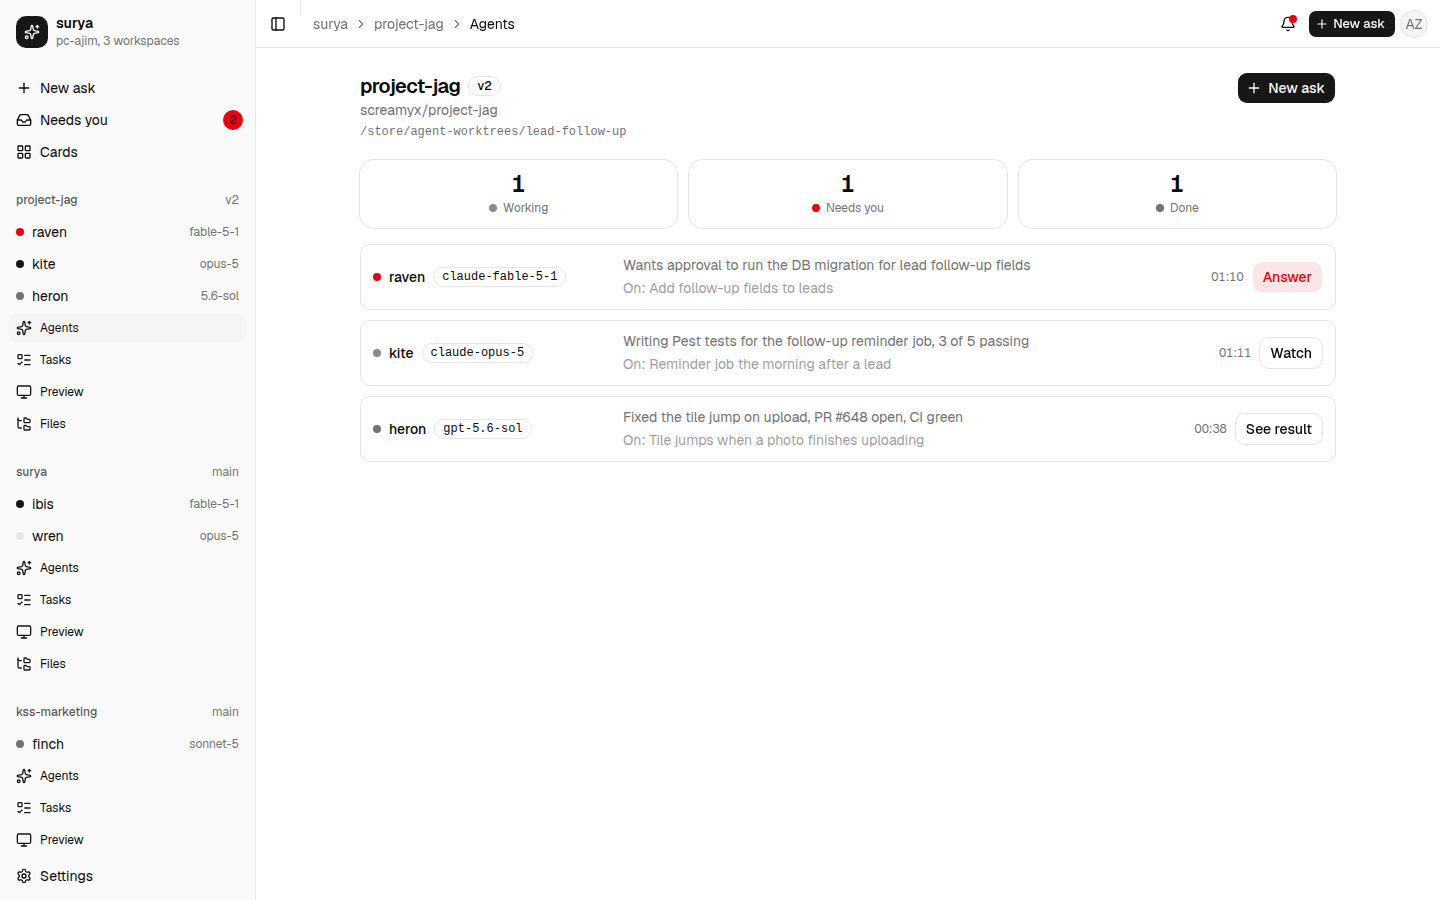
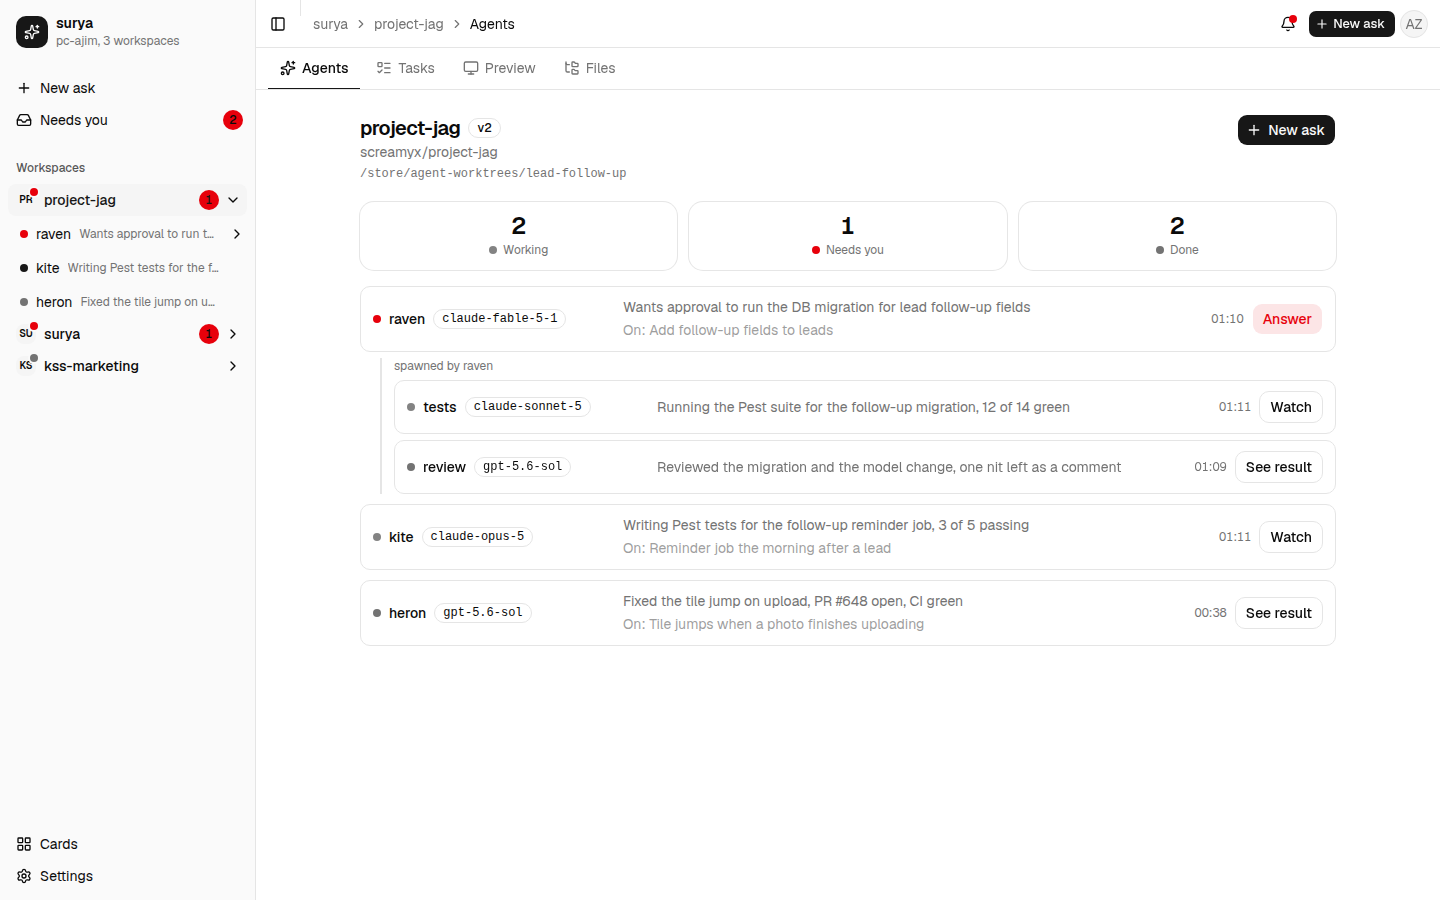
mockup: rail lists workspaces and nested agents only, workspace tab bar, spawned agents parented

diff --git a/mockup/src/components/app-shell.tsx b/mockup/src/components/app-shell.tsx
@@ -1,8 +1,9 @@
 import { Link, NavLink, Outlet, useLocation, useParams } from "react-router"
-import { Bell, FolderTree, Home, Inbox, LayoutGrid, ListTodo, Monitor, Plus, Settings, Sparkles } from "lucide-react"
+import { Bell, ChevronRight, Home, Inbox, LayoutGrid, ListTodo, Monitor, Plus, Settings, Sparkles } from "lucide-react"
+import { Collapsible, CollapsibleContent, CollapsibleTrigger } from "@/components/ui/collapsible"
 import {
   Sidebar, SidebarContent, SidebarFooter, SidebarGroup, SidebarGroupContent, SidebarGroupLabel, SidebarHeader, SidebarInset,
-  SidebarMenu, SidebarMenuBadge, SidebarMenuButton, SidebarMenuItem, SidebarMenuSub, SidebarMenuSubButton, SidebarMenuSubItem,
+  SidebarMenu, SidebarMenuAction, SidebarMenuBadge, SidebarMenuButton, SidebarMenuItem, SidebarMenuSub, SidebarMenuSubButton, SidebarMenuSubItem,
   SidebarProvider, SidebarRail, SidebarTrigger,
 } from "@/components/ui/sidebar"
 import { Button } from "@/components/ui/button"
@@ -11,55 +12,83 @@ import { Separator } from "@/components/ui/separator"
 import { Breadcrumb, BreadcrumbItem, BreadcrumbLink, BreadcrumbList, BreadcrumbPage, BreadcrumbSeparator } from "@/components/ui/breadcrumb"
 import { Avatar, AvatarFallback } from "@/components/ui/avatar"
 import { StatusDot } from "@/components/status"
-import { inbox, workspaces } from "@/data"
+import { byPriority, inbox, needsYouCount, rollup, workspaces, type Agent } from "@/data"
 import { cn } from "@/lib/utils"
 
 const needsYou = inbox.filter((i) => i.kind === "permission" || i.kind === "question").length
 
-function WorkspaceNav() {
-  const { ws, id } = useParams()
-  const { pathname } = useLocation()
+// One row per agent. Spawned agents nest under their spawner, folded by default unless one of them needs you.
+function AgentRow({ a, ws }: { a: Agent; ws: string }) {
+  const { id } = useParams()
+  const kids = byPriority(a.children)
+  const hot = needsYouCount(a.children) > 0
+  const row = (
+    <SidebarMenuButton render={<Link to={`/w/${ws}/agent/${a.id}`} />} isActive={id === a.id} tooltip={a.summary} className="group/agent">
+      <StatusDot status={rollup(a)} />
+      <span className="truncate">{a.name}</span>
+      <span className="text-muted-foreground min-w-0 flex-1 truncate text-xs">{a.summary}</span>
+    </SidebarMenuButton>
+  )
+  if (!kids.length) return <SidebarMenuItem>{row}</SidebarMenuItem>
   return (
-    <>
-      {workspaces.map((w) => (
-        <SidebarGroup key={w.id}>
-          <SidebarGroupLabel className="justify-between">
-            <span className="truncate">{w.name}</span>
-            <span className="text-muted-foreground font-normal">{w.branch}</span>
-          </SidebarGroupLabel>
-          <SidebarGroupContent>
-            <SidebarMenu>
-              {w.agents.map((a) => (
-                <SidebarMenuItem key={a.id}>
-                  <SidebarMenuButton render={<Link to={`/w/${w.id}/agent/${a.id}`} />} isActive={ws === w.id && id === a.id} tooltip={a.summary}>
-                    <StatusDot status={a.status} />
-                    <span className="truncate">{a.name}</span>
-                    <span className="text-muted-foreground ml-auto truncate text-xs">{a.model.replace("claude-", "").replace("gpt-", "")}</span>
-                  </SidebarMenuButton>
-                </SidebarMenuItem>
-              ))}
-              <SidebarMenuItem>
-                <SidebarMenuSub className="mx-0 border-0 px-0">
-                  {[
-                    { to: `/w/${w.id}/agents`, icon: Sparkles, label: "Agents" },
-                    { to: `/w/${w.id}/tasks`, icon: ListTodo, label: "Tasks" },
-                    { to: `/w/${w.id}/preview`, icon: Monitor, label: "Preview" },
-                    { to: `/w/${w.id}/files`, icon: FolderTree, label: "Files" },
-                  ].map((l) => (
-                    <SidebarMenuSubItem key={l.to}>
-                      <SidebarMenuSubButton render={<Link to={l.to} />} isActive={pathname === l.to} size="sm">
-                        <l.icon />
-                        <span>{l.label}</span>
-                      </SidebarMenuSubButton>
-                    </SidebarMenuSubItem>
-                  ))}
-                </SidebarMenuSub>
-              </SidebarMenuItem>
-            </SidebarMenu>
-          </SidebarGroupContent>
-        </SidebarGroup>
-      ))}
-    </>
+    <Collapsible defaultOpen={hot || id === a.id || kids.some((k) => k.id === id)} className="group/kids" render={<SidebarMenuItem />}>
+      {row}
+      <CollapsibleTrigger render={<SidebarMenuAction className="data-[panel-open]:rotate-90" aria-label="Show spawned agents" />}>
+        <ChevronRight />
+      </CollapsibleTrigger>
+      <CollapsibleContent>
+        <SidebarMenuSub>
+          {kids.map((k) => (
+            <SidebarMenuSubItem key={k.id}>
+              <SidebarMenuSubButton render={<Link to={`/w/${ws}/agent/${k.id}`} />} isActive={id === k.id} size="sm">
+                <StatusDot status={rollup(k)} />
+                <span className="truncate">{k.name}</span>
+                <span className="text-muted-foreground min-w-0 flex-1 truncate text-xs">{k.summary}</span>
+              </SidebarMenuSubButton>
+            </SidebarMenuSubItem>
+          ))}
+        </SidebarMenuSub>
+      </CollapsibleContent>
+    </Collapsible>
+  )
+}
+
+// Workspaces are the top level. Only the current one is open; a closed one still shows its worst status and its "needs you" count.
+function WorkspaceNav() {
+  const { ws } = useParams()
+  const current = ws ?? workspaces[0].id
+  return (
+    <SidebarGroup>
+      <SidebarGroupLabel>Workspaces</SidebarGroupLabel>
+      <SidebarGroupContent>
+        <SidebarMenu>
+          {workspaces.map((w) => {
+            const hot = needsYouCount(w.agents)
+            const worst = w.agents.length ? rollup({ ...w.agents[0], status: "idle", children: w.agents }) : "idle"
+            return (
+              <Collapsible key={w.id} defaultOpen={w.id === current} render={<SidebarMenuItem />}>
+                <SidebarMenuButton render={<Link to={`/w/${w.id}/agents`} />} isActive={w.id === current} tooltip={`${w.name} · ${w.branch}`} className="font-medium">
+                  <span className="bg-muted text-foreground relative grid size-5 shrink-0 place-items-center rounded-md text-[10px] font-semibold uppercase">
+                    {w.name.slice(0, 2)}
+                    <StatusDot status={worst} className="absolute -top-0.5 -right-0.5 size-2 ring-2 ring-sidebar" />
+                  </span>
+                  <span className="truncate">{w.name}</span>
+                </SidebarMenuButton>
+                {hot > 0 && <SidebarMenuBadge className="bg-destructive text-destructive-foreground right-7 rounded-full">{hot}</SidebarMenuBadge>}
+                <CollapsibleTrigger render={<SidebarMenuAction className="data-[panel-open]:rotate-90" aria-label="Toggle workspace" />}>
+                  <ChevronRight />
+                </CollapsibleTrigger>
+                <CollapsibleContent>
+                  <SidebarMenu className="mt-0.5 ml-1 gap-0.5">
+                    {byPriority(w.agents).map((a) => <AgentRow key={a.id} a={a} ws={w.id} />)}
+                  </SidebarMenu>
+                </CollapsibleContent>
+              </Collapsible>
+            )
+          })}
+        </SidebarMenu>
+      </SidebarGroupContent>
+    </SidebarGroup>
   )
 }
 
@@ -125,7 +154,6 @@ export function AppShell() {
                   <SidebarMenuButton render={<Link to="/inbox" />} tooltip="Needs you"><Inbox /><span>Needs you</span></SidebarMenuButton>
                   {needsYou > 0 && <SidebarMenuBadge className="bg-destructive text-destructive-foreground rounded-full">{needsYou}</SidebarMenuBadge>}
                 </SidebarMenuItem>
-                <SidebarMenuItem><SidebarMenuButton render={<Link to="/catalog" />} tooltip="Cards"><LayoutGrid /><span>Cards</span></SidebarMenuButton></SidebarMenuItem>
               </SidebarMenu>
             </SidebarGroupContent>
           </SidebarGroup>
@@ -133,9 +161,8 @@ export function AppShell() {
         </SidebarContent>
         <SidebarFooter>
           <SidebarMenu>
-            <SidebarMenuItem>
-              <SidebarMenuButton render={<Link to="/settings" />} tooltip="Settings"><Settings /><span>Settings</span></SidebarMenuButton>
-            </SidebarMenuItem>
+            <SidebarMenuItem><SidebarMenuButton render={<Link to="/catalog" />} tooltip="Cards"><LayoutGrid /><span>Cards</span></SidebarMenuButton></SidebarMenuItem>
+            <SidebarMenuItem><SidebarMenuButton render={<Link to="/settings" />} tooltip="Settings"><Settings /><span>Settings</span></SidebarMenuButton></SidebarMenuItem>
           </SidebarMenu>
         </SidebarFooter>
         <SidebarRail />

diff --git a/mockup/src/data.ts b/mockup/src/data.ts
@@ -21,6 +21,8 @@ export type Agent = {
   startedAt: string
   lastEventAt: string
   task?: string
+  parentId?: string // the agent that spawned this one; undefined = you started it
+  children: Agent[]
 }
 
 export type InboxKind = "permission" | "question" | "pin" | "result"
@@ -133,6 +135,31 @@ export const agents: Agent[] = [
     startedAt: "2026-09-05T00:41:00+08:00",
     lastEventAt: "2026-09-05T01:10:12+08:00",
     task: "t-1",
+    children: [],
+  },
+  {
+    id: "raven-tests",
+    workspaceId: "project-jag",
+    name: "tests",
+    model: "claude-sonnet-5",
+    status: "working",
+    summary: "Running the Pest suite for the follow-up migration, 12 of 14 green",
+    startedAt: "2026-09-05T01:08:00+08:00",
+    lastEventAt: "2026-09-05T01:11:50+08:00",
+    parentId: "raven",
+    children: [],
+  },
+  {
+    id: "raven-review",
+    workspaceId: "project-jag",
+    name: "review",
+    model: "gpt-5.6-sol",
+    status: "done",
+    summary: "Reviewed the migration and the model change, one nit left as a comment",
+    startedAt: "2026-09-05T01:05:00+08:00",
+    lastEventAt: "2026-09-05T01:09:30+08:00",
+    parentId: "raven",
+    children: [],
   },
   {
     id: "kite",
@@ -144,6 +171,7 @@ export const agents: Agent[] = [
     startedAt: "2026-09-05T00:52:00+08:00",
     lastEventAt: "2026-09-05T01:11:58+08:00",
     task: "t-2",
+    children: [],
   },
   {
     id: "heron",
@@ -155,6 +183,7 @@ export const agents: Agent[] = [
     startedAt: "2026-09-04T23:20:00+08:00",
     lastEventAt: "2026-09-05T00:38:00+08:00",
     task: "t-4",
+    children: [],
   },
   {
     id: "ibis",
@@ -166,6 +195,19 @@ export const agents: Agent[] = [
     startedAt: "2026-09-05T01:02:00+08:00",
     lastEventAt: "2026-09-05T01:11:40+08:00",
     task: "t-6",
+    children: [],
+  },
+  {
+    id: "ibis-shots",
+    workspaceId: "surya",
+    name: "shots",
+    model: "claude-haiku-4-5-20251001",
+    status: "needs-you",
+    summary: "Wants to install a Chrome build to take phone screenshots",
+    startedAt: "2026-09-05T01:09:00+08:00",
+    lastEventAt: "2026-09-05T01:11:20+08:00",
+    parentId: "ibis",
+    children: [],
   },
   {
     id: "wren",
@@ -176,6 +218,7 @@ export const agents: Agent[] = [
     summary: "Waiting for the next task",
     startedAt: "2026-09-05T00:58:00+08:00",
     lastEventAt: "2026-09-05T01:05:00+08:00",
+    children: [],
   },
   {
     id: "finch",
@@ -186,9 +229,19 @@ export const agents: Agent[] = [
     summary: "Rendered 42 catalog reels, all published",
     startedAt: "2026-09-04T22:00:00+08:00",
     lastEventAt: "2026-09-04T23:48:00+08:00",
+    children: [],
   },
 ]
-for (const w of workspaces) w.agents = agents.filter((a) => a.workspaceId === w.id)
+for (const a of agents) a.children = agents.filter((c) => c.parentId === a.id)
+for (const w of workspaces) w.agents = agents.filter((a) => a.workspaceId === w.id && !a.parentId)
+
+// Status of an agent including everything it spawned: the worst state wins.
+const rank: Record<AgentStatus, number> = { "needs-you": 0, working: 1, done: 2, idle: 3 }
+export const rollup = (a: Agent): AgentStatus =>
+  [a, ...a.children.map((c) => ({ status: rollup(c) }))].reduce<AgentStatus>((worst, x) => (rank[x.status] < rank[worst] ? x.status : worst), a.status)
+export const needsYouCount = (list: Agent[]): number => list.reduce((n, a) => n + (a.status === "needs-you" ? 1 : 0) + needsYouCount(a.children), 0)
+export const byPriority = (list: Agent[]): Agent[] => [...list].sort((x, y) => rank[rollup(x)] - rank[rollup(y)])
+export const flatten = (list: Agent[]): Agent[] => list.flatMap((a) => [a, ...flatten(a.children)])
 
 export const inbox: InboxItem[] = [
   {

diff --git a/mockup/src/screens/agents.tsx b/mockup/src/screens/agents.tsx
@@ -8,7 +8,7 @@ import { Button } from "@/components/ui/button"
 import { Card } from "@/components/ui/card"
 import { Item, ItemActions, ItemContent, ItemDescription } from "@/components/ui/item"
 import { StatusDot } from "@/components/status"
-import { fmtTime, tasks, workspaceById, workspaces, type Agent, type AgentStatus } from "@/data"
+import { flatten, fmtTime, tasks, workspaceById, workspaces, type Agent, type AgentStatus } from "@/data"
 import { rise, stagger } from "@/motion"
 import { cn } from "@/lib/utils"
 
@@ -95,7 +95,7 @@ export function AgentsScreen() {
           <Card key={t.status} size="sm" className="items-center text-center">
             <div className="flex flex-col items-center gap-1">
               <span className="font-heading text-2xl leading-none font-semibold tabular-nums">
-                {w.agents.filter((a) => a.status === t.status).length}
+                {flatten(w.agents).filter((a) => a.status === t.status).length}
               </span>
               <span className="text-muted-foreground flex items-center gap-1.5 text-xs">
                 <StatusDot status={t.status} />
@@ -110,6 +110,12 @@ export function AgentsScreen() {
         {w.agents.map((a) => (
           <motion.div key={a.id} variants={rise}>
             <AgentRow agent={a} />
+            {a.children.length > 0 && (
+              <div className="border-border ml-5 mt-1.5 flex flex-col gap-1.5 border-l-2 pl-3">
+                <div className="text-muted-foreground text-xs">spawned by {a.name}</div>
+                {a.children.map((c) => <AgentRow key={c.id} agent={c} />)}
+              </div>
+            )}
           </motion.div>
         ))}
       </motion.div>

diff --git a/mockup/src/routes.tsx b/mockup/src/routes.tsx
@@ -1,6 +1,7 @@
 // Route table for every surya 1.0 RC surface. Frozen: builders edit their screen files, not this.
 import { Routes, Route, Navigate } from "react-router"
 import { AppShell } from "@/components/app-shell"
+import { WorkspaceLayout } from "@/components/workspace-tabs"
 import { HomeScreen } from "@/screens/home"
 import { AgentFeedScreen } from "@/screens/agent-feed"
 import { InboxScreen } from "@/screens/inbox"
@@ -38,12 +39,14 @@ export function AppRoutes() {
         <Route path="settings" element={<SettingsScreen />} />
         <Route path="w/:ws">
           <Route index element={<Navigate to="agents" replace />} />
-          <Route path="agents" element={<AgentsScreen />} />
+          <Route element={<WorkspaceLayout />}>
+            <Route path="agents" element={<AgentsScreen />} />
+            <Route path="tasks" element={<TasksScreen />} />
+            <Route path="preview" element={<PreviewScreen />} />
+            <Route path="files" element={<FilesScreen />} />
+          </Route>
           <Route path="agent/:id" element={<AgentFeedScreen />} />
-          <Route path="preview" element={<PreviewScreen />} />
-          <Route path="tasks" element={<TasksScreen />} />
           <Route path="result/:id" element={<ResultScreen />} />
-          <Route path="files" element={<FilesScreen />} />
         </Route>
         <Route path="*" element={<Navigate to="/" replace />} />
       </Route>

diff --git a/mockup/src/components/workspace-tabs.tsx b/mockup/src/components/workspace-tabs.tsx
@@ -1,0 +1,29 @@
+import { NavLink, Outlet, useParams } from "react-router"
+import { FolderTree, ListTodo, Monitor, Sparkles } from "lucide-react"
+import { cn } from "@/lib/utils"
+import { workspaceById } from "@/data"
+
+// The four pages every workspace has. They live here, on the page, not in the rail.
+export function WorkspaceLayout() {
+  const { ws } = useParams()
+  const w = workspaceById(ws!)
+  const tabs = [
+    { to: `/w/${w.id}/agents`, icon: Sparkles, label: "Agents" },
+    { to: `/w/${w.id}/tasks`, icon: ListTodo, label: "Tasks" },
+    { to: `/w/${w.id}/preview`, icon: Monitor, label: "Preview" },
+    { to: `/w/${w.id}/files`, icon: FolderTree, label: "Files" },
+  ]
+  return (
+    <>
+      <div className="bg-background/95 sticky top-12 z-20 flex items-center gap-1 overflow-x-auto border-b px-3 backdrop-blur">
+        {tabs.map((t) => (
+          <NavLink key={t.to} to={t.to} className={({ isActive }) => cn("text-muted-foreground -mb-px flex shrink-0 items-center gap-1.5 border-b-2 border-transparent px-3 py-2.5 text-sm", isActive && "border-primary text-foreground font-medium")}>
+            <t.icon className="size-4" />
+            {t.label}
+          </NavLink>
+        ))}
+      </div>
+      <Outlet />
+    </>
+  )
+}

diff --git a/docs/decisions.md b/docs/decisions.md
@@ -161,6 +161,22 @@ Agents write cards as tool calls (`show_card`), never as text in the reply. The 
 Because a workspace card is JSON, an agent working in that repo can add a new card the same way it adds a skill.
 Escape hatch, not day one: a built and installed surya plugin for a visual the primitives cannot express.
 
+## 15. Rail and agent tree
+
+Owner, 2026-09-05 01:44: "the left rails could be done better i think."
+Owner, 01:46: "agents spawned by other agents are parented by their spawner."
+
+The rail lists workspaces and agents, nothing else.
+The four workspace pages, Agents, Tasks, Preview, Files, are a tab bar on the workspace page.
+Workspaces collapse, only the current one is open. A closed workspace still shows its worst status as a dot and its "needs you" count.
+Agents form a tree. An agent's parent is you or the agent that spawned it. Children nest under their parent in the rail and on the Agents page, folded unless one of them needs you.
+Status rolls up: a child that needs you marks every ancestor's row.
+Agents sort by priority: needs you, working, done, idle.
+Model names stay off the rail row.
+Cards and Settings sit at the bottom of the rail.
+
+Applied to the mockup on 2026-09-05 01:50.
+
 ## Open
 
 None at day zero.
